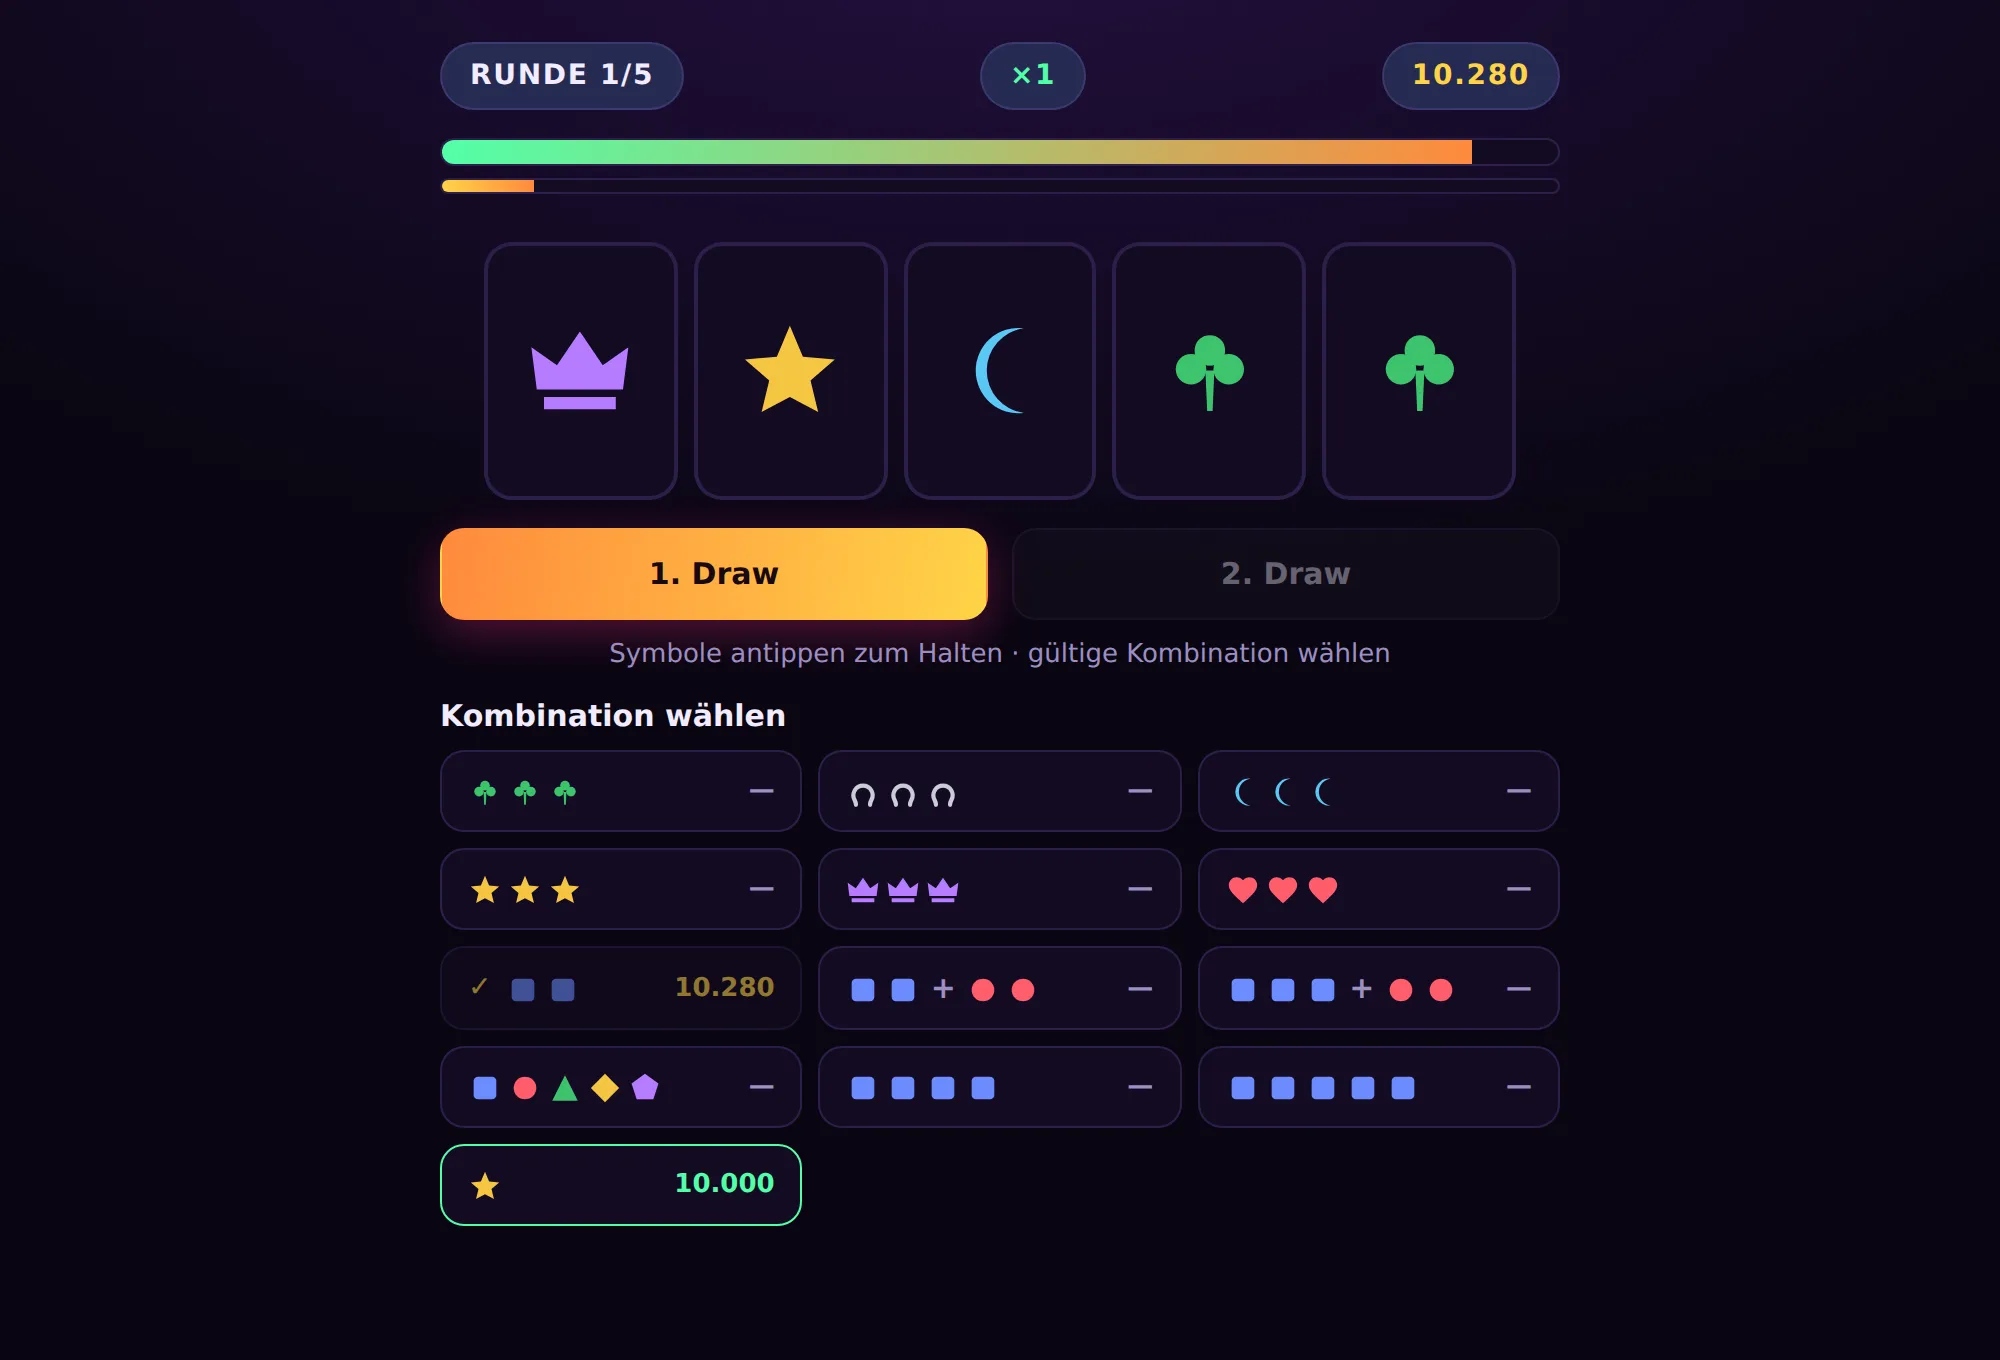
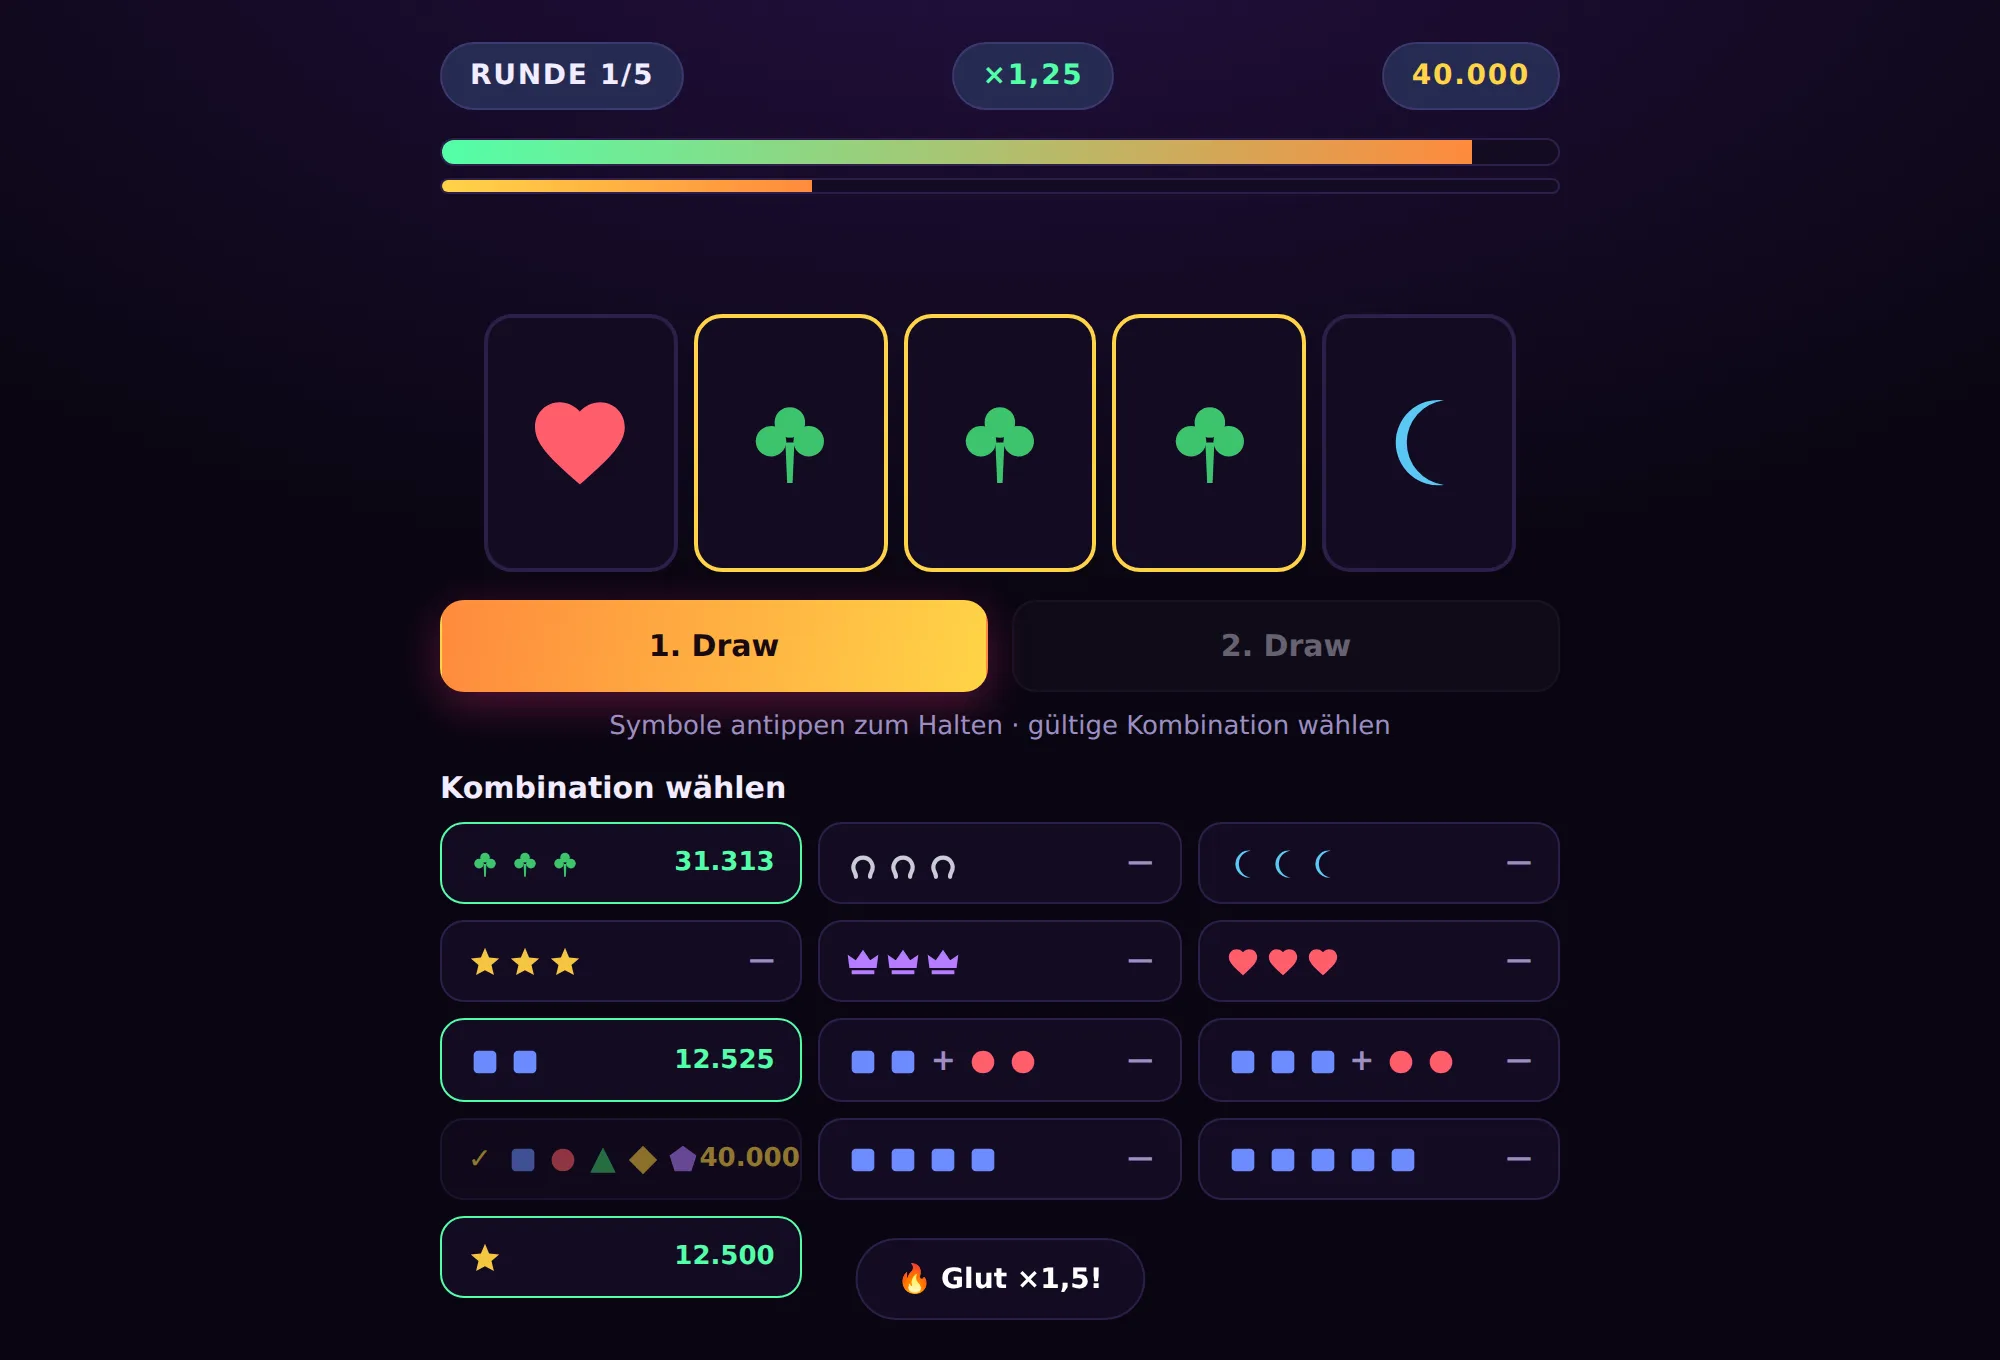
Keep: Probe fuer Ton und Effekte, dazu die neuen Bilder
Zu den Toenen und Effekten in Keep gehoert eine Probe, die es ohne Browser
und ohne Dienst gibt: `pruefe-keep-effekte.mjs` haelt jeden `sfx.…()` und
jeden `FX.…()`, den `app.js` schreibt, gegen das, was die Module wirklich
anbieten - und umgekehrt, damit keine Stimme ungenutzt herumliegt. Der Grund
ist Falle 4 aus CLAUDE.md: in reinem JS geht ein unbekannter Name glatt
durch, und ein vertippter Jackpot-Ton faellt sonst erst beim Fuenfling auf,
also vielleicht nie.

`pruefe-keep-glut.mjs` lernt die Rollphase kennen. Sie wartet jetzt darauf,
dass die Tafel wieder Zahlen zeigt, statt in die rollenden Walzen zu greifen
und das leere Brett fuer einen Fehlwurf zu halten. Zwei Pruefungen kommen
dazu: G06 misst, dass der Jubel weder auf den Walzen noch auf der Kombi-Tafel
liegt und kein Effekt einen Klick wegnimmt; G07 misst, wie lange das Rollen
wirklich dauert (zuletzt 814 ms, die Grenze steht bei 1500).

Nachgezogen hat sich dabei auch, was fuer G02 abgelesen wird: nicht mehr die
Vorschau vor dem Klick, sondern die Zahl, die auf der gewerteten Kachel
stehen bleibt. Zwischen Ablesen und Antippen kann die Glut eine Stufe fallen
- so ist es gemeint, nachrechnen laesst es sich aber nur an der Zahl danach.

Die Bilder auf `/spiele/` zeigen den neuen Stand, samt der Gewinnlinie, die
jetzt aufleuchtet.

diff --git a/doku/pruefen.md b/doku/pruefen.md
@@ -37,7 +37,7 @@ node pruefe-cardchaos-tippen.mjs  # Karten mit dem Finger, schnell hintereinande
 node pruefe-cardchaos-ende.mjs    # Wartebildschirm: Fahne ruhig, Muenze vor dem Gewinn
 node pruefe-cardchaos-ablage.mjs  # Jubelmeldungen ueber der Pyramide, nie auf den Karten
 node pruefe-cardchaos-bestenliste.mjs  # eine Liste statt zwei: Woche/Ewig x 3/5/10 Runden
-node pruefe-keep-glut.mjs      # Keep: Glutbalken, Multiplikator, feste Zahlen (eigene Fassung, Port 8106)
+node pruefe-keep-glut.mjs      # Keep: Glutbalken, Multiplikator, feste Zahlen, und dass der Jubel nichts verdeckt (eigene Fassung, Port 8106)
 node pruefe-keep-bestenliste.mjs  # Keep: Woche/Ewig, eine Zeile je Person (eigene Fassung, Port 8107)
 ```
 
@@ -58,6 +58,7 @@ node werkzeug/pruefe-seconds.mjs   # ganze Partie Seconds
 node werkzeug/pruefe-cardchaos.mjs # ganze Partie Card Chaos
 node werkzeug/pruefe-keep.mjs      # ganze Partie Keep
 node werkzeug/pruefe-keep-punkte.mjs  # Keep: Punktetafel, Rangfolge, Glut (ohne Dienst)
+node werkzeug/pruefe-keep-effekte.mjs # Keep: jeder Ton und jeder Effekt, den app.js ruft, gibt es auch
 node werkzeug/pruefe-solo.mjs      # Keep, Card Chaos und Snake starten allein
 ```
 
